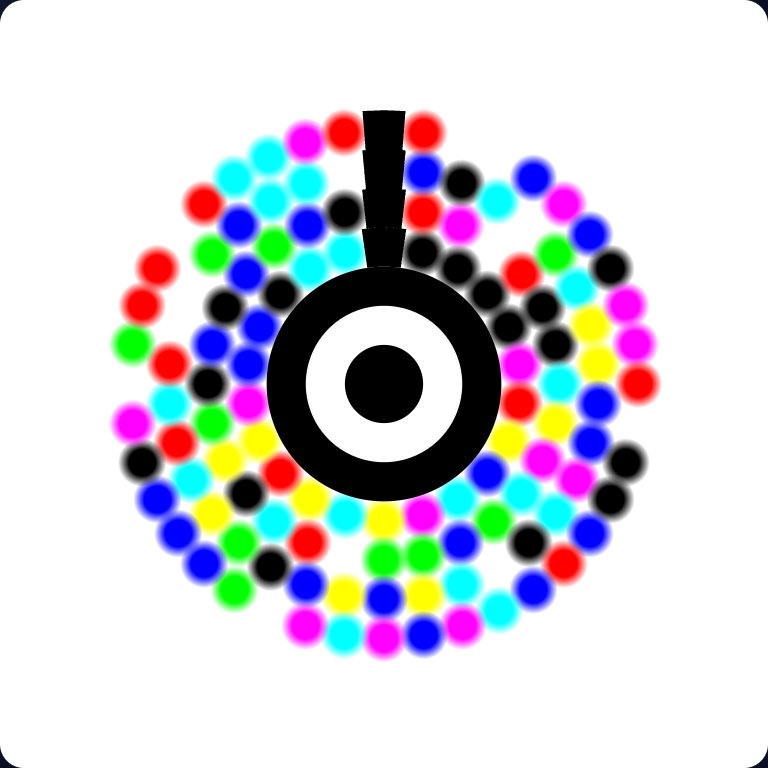
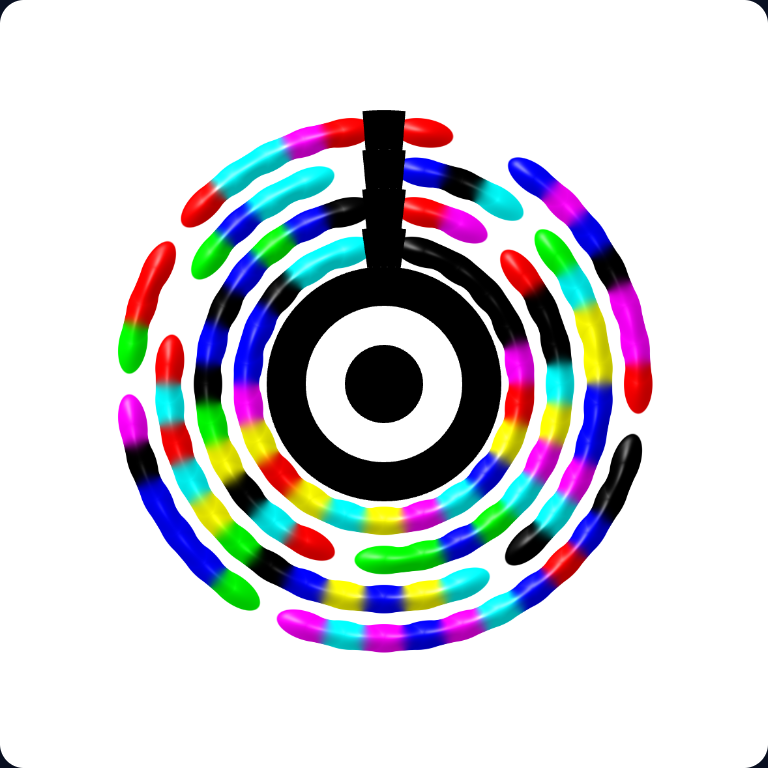
feat(web): PixiJS metaball "blobs" style
Replace the SVG circle-blob with a real PixiJS (WebGL) renderer. Each data cell
is an anisotropic metaball that merges ALONG its ring into gooey liquid bands
(colours blending at the necks via a field-weighted blend) but is radially
confined to < half the ring spacing, so LEVELS NEVER BLEND. Glossy liquid
shading from the ANALYTIC field gradient → continuous across joints (no creases);
cell cores keep ~zero gradient and a pure hue, so the metaballs still decode.
Display is supersampled (crisp); the Lab renders blobs at native res so
distort/decode stays fast.

Wired into the generator preview, PNG export and the Robustness Lab; validated
in headless Chrome (real WebGL): clean + tough combined-distortion scenarios all
decode (12–82 ms). eslint allows the PIXI global; README cell-style gallery
refreshed.

Changed region(s): [[0.125, 0.125, 0.875, 0.875]]

diff --git a/web/pixi-render.js b/web/pixi-render.js
@@ -1,0 +1,211 @@
+// PixiJS (WebGL) renderer for the IRIS "blobs" style — METABALLS.
+//
+// Each data cell is a metaball (an inverse-square field source) at its cell
+// centre, coloured by its palette entry. The fragment shader sums every cell's
+// field; where the sum crosses a threshold there is "surface", so neighbouring
+// blobs MERGE with smooth organic necks (mercury / lava-lamp), and the colour at
+// each pixel is the field-WEIGHTED BLEND of the contributing cells — so colours
+// blend exactly where blobs stick together. Inverse-square falloff means a cell's
+// own field dominates at its centre, so centres stay pure → the symbol decodes.
+// No blur: edges are a hard threshold (1px antialias only). Pupil + registration
+// ray are drawn solid on top (fiducials).
+//
+// Uses the global `PIXI` (CDN). Returns null if PIXI is unavailable.
+import { PALETTE } from "../src/color.js";
+import { imageSizePx } from "../src/params.js";
+
+// Tunables. RADIUS_FRAC sets each blob's influence vs its cell pitch; THRESHOLD
+// is the iso-surface level. Together they decide how readily blobs merge: necks
+// form between adjacent coloured cells, but a background (white) cell's centre
+// stays below threshold so it reads as background.
+// Anisotropic metaballs: WIDE along the ring (tangential) so angular neighbours
+// merge into a thick gooey concentric band, and radially CONFINED so each level
+// is independent. RAD_RAD is kept just under 0.5 (half the ring spacing): then no
+// pixel is ever inside two rings' blobs at once, so colours NEVER blend between
+// levels — the merging/blending is strictly within a ring. Lower THRESHOLD fattens
+// the blobs toward filling the ring (a thin seam still separates the levels).
+const RAD_TAN = 1.0; // tangential reach vs angular cell pitch (≤1 keeps cell centres pure)
+const RAD_RAD = 0.49; // radial reach vs ring width — MUST stay < 0.5 (no cross-level blend)
+const THRESHOLD = 0.2; // iso-surface level (lower → thicker bands)
+
+const VERT = `
+precision highp float;
+attribute vec2 aVertexPosition;
+attribute vec2 aUv;
+uniform mat3 projectionMatrix;
+uniform mat3 translationMatrix;
+varying vec2 vUv;
+void main() {
+  vUv = aUv;
+  gl_Position = vec4((projectionMatrix * translationMatrix * vec3(aVertexPosition, 1.0)).xy, 0.0, 1.0);
+}`;
+
+const FRAG = `
+precision highp float;
+varying vec2 vUv;
+uniform vec2 uResolution;
+uniform vec2 uCenter;
+uniform sampler2D uData;   // width=count, height=2: row0=(x,y,radTan,radRad), row1=(r,g,b)
+uniform float uCount;
+uniform float uThreshold;
+const int MAXC = 1024;
+void main() {
+  vec2 p = vUv * uResolution;
+  float field = 0.0;  // surface field (smooth, finite support)
+  float wsum = 0.0;   // colour weight (sharper → nearest blob dominates, necks blend 2)
+  vec3 col = vec3(0.0);
+  vec2 grad = vec2(0.0); // ANALYTIC gradient of the field → continuous surface normal
+  for (int i = 0; i < MAXC; i++) {
+    if (float(i) >= uCount) break;
+    float u = (float(i) + 0.5) / uCount;
+    vec4 a = texture2D(uData, vec2(u, 0.25)); // x, y, radTan, radRad
+    vec3 c = texture2D(uData, vec2(u, 0.75)).rgb;
+    vec2 d = p - a.xy;
+    // Decompose into radial / tangential about the symbol centre → anisotropic blob.
+    vec2 rad = normalize(a.xy - uCenter);
+    vec2 tang = vec2(-rad.y, rad.x);
+    float dr = dot(d, rad) / a.w;      // a.w = radial reach
+    float dt = dot(d, tang) / a.z;     // a.z = tangential reach
+    float t = 1.0 - (dr * dr + dt * dt); // finite support ellipse: 0 outside the blob
+    if (t <= 0.0) continue;
+    float f = t * t;     // Wyvill-ish smooth bump
+    float w = f * f;     // sharper weight keeps colours vivid, blends only at necks
+    field += f;
+    wsum += w;
+    col += c * w;
+    // d(t²)/dp = 2t·dt/dp,  dt/dp = -2(dr·rad/radRad + dt·tang/radTan)
+    grad += -4.0 * t * (dr * rad / a.w + dt * tang / a.z);
+  }
+  float alpha = smoothstep(uThreshold * 0.85, uThreshold * 1.15, field);
+  if (alpha <= 0.0) discard;
+  col /= max(wsum, 1e-4); // flat blended base colour (pure at cell cores)
+
+  // Glossy liquid shading. The normal comes from the field GRADIENT (the true
+  // iso-surface slope), which is continuous across merged blobs — so necks shade
+  // seamlessly, no creases at the joints. At a cell core grad≈0 → normal faces the
+  // viewer → uniform light → core keeps its pure hue (decodes); the highlight sits
+  // on the light-facing slopes, off-centre.
+  vec3 N = normalize(vec3(-grad * 6.0, 1.0));
+  vec3 L = normalize(vec3(-0.5, -0.7, 0.75));
+  vec3 H = normalize(L + vec3(0.0, 0.0, 1.0));      // viewer along +z
+  float core = smoothstep(uThreshold, uThreshold * 2.5, field); // 0 at rim, 1 in core
+  float diff = max(0.0, dot(N, L));
+  float spec = pow(max(0.0, dot(N, H)), 28.0) * 0.5;
+  float lambert = 0.68 + 0.40 * diff;
+  vec3 shaded = clamp(col * lambert + vec3(spec) * core, 0.0, 1.0);
+  gl_FragColor = vec4(shaded * alpha, alpha); // premultiplied
+}`;
+
+let renderer = null;
+let rKey = ""; // size@resolution the current renderer was built for
+const ok = () => typeof PIXI !== "undefined";
+
+// Supersample so the smooth metaball shading isn't upscaled (= pixelated) on
+// retina displays: render at `res`× and let it display downscaled. Capped so the
+// backing canvas stays ~≤1200px even for big symbols.
+const superSample = (size) => Math.max(1, Math.min(3, Math.round(1200 / size)));
+
+function getRenderer(size, res) {
+  const key = `${size}@${res}`;
+  if (renderer && rKey === key) return renderer;
+  if (renderer) renderer.destroy();
+  renderer = new PIXI.Renderer({
+    width: size, height: size, backgroundAlpha: 0, antialias: true,
+    resolution: res, autoDensity: false, preserveDrawingBuffer: true,
+  });
+  rKey = key;
+  return renderer;
+}
+
+const P = (cx, cy, r, a) => [cx + r * Math.sin(a), cy - r * Math.cos(a)];
+
+function buildStage(sym, size) {
+  const p = sym.params;
+  const { Rp, dr, K, N, u } = p;
+  const c = size / 2;
+  const stage = new PIXI.Container();
+
+  // Collect one metaball per coloured data cell (skip white background and the
+  // registration ray, which is drawn solid).
+  const blobs = [];
+  for (let k = 0; k < K; k++) {
+    const rmid = (Rp + (k + 0.5) * dr) * u;
+    const dk = (2 * Math.PI) / N[k];
+    const radTan = RAD_TAN * rmid * dk; // along the ring → merges angular neighbours
+    const radRad = RAD_RAD * dr * u; // across rings → small, leaves a gap between levels
+    for (let i = 1; i < N[k]; i++) {
+      const v = sym.cells[k][i];
+      if (v === 7) continue; // white === background
+      const [x, y] = P(c, c, rmid, i * dk); // centered convention
+      blobs.push({ x, y, radTan, radRad, rgb: PALETTE[v] });
+    }
+  }
+
+  if (blobs.length) {
+    const count = blobs.length;
+    const buf = new Float32Array(count * 2 * 4); // 2 rows (pos+radius, color) x RGBA
+    for (let i = 0; i < count; i++) {
+      const b = blobs[i];
+      buf[i * 4 + 0] = b.x; buf[i * 4 + 1] = b.y; buf[i * 4 + 2] = b.radTan; buf[i * 4 + 3] = b.radRad;
+      const o = (count + i) * 4; // row 1
+      buf[o + 0] = b.rgb[0] / 255; buf[o + 1] = b.rgb[1] / 255; buf[o + 2] = b.rgb[2] / 255; buf[o + 3] = 1;
+    }
+    const tex = PIXI.Texture.fromBuffer(buf, count, 2, {
+      format: PIXI.FORMATS.RGBA, type: PIXI.TYPES.FLOAT, scaleMode: PIXI.SCALE_MODES.NEAREST,
+    });
+    const geometry = new PIXI.Geometry()
+      .addAttribute("aVertexPosition", [0, 0, size, 0, size, size, 0, size], 2)
+      .addAttribute("aUv", [0, 0, 1, 0, 1, 1, 0, 1], 2)
+      .addIndex([0, 1, 2, 0, 2, 3]);
+    const shader = PIXI.Shader.from(VERT, FRAG, {
+      uResolution: [size, size], uCenter: [c, c], uData: tex, uCount: count, uThreshold: THRESHOLD,
+    });
+    stage.addChild(new PIXI.Mesh(geometry, shader));
+  }
+
+  // Registration ray: solid continuous wedge per ring (fiducial).
+  const ray = new PIXI.Graphics();
+  for (let k = 0; k < K; k++) {
+    const r0 = (Rp + k * dr) * u, r1 = (Rp + (k + 1) * dr) * u, dk = (2 * Math.PI) / N[k];
+    const a0 = -0.5 * dk, a1 = 0.5 * dk, S = 6;
+    ray.beginFill(0x000000);
+    ray.moveTo(...P(c, c, r0, a0));
+    for (let s = 0; s <= S; s++) ray.lineTo(...P(c, c, r1, a0 + (a1 - a0) * (s / S)));
+    for (let s = 0; s <= S; s++) ray.lineTo(...P(c, c, r0, a1 - (a1 - a0) * (s / S)));
+    ray.closePath();
+    ray.endFill();
+  }
+  stage.addChild(ray);
+
+  // Pupil bullseye.
+  const pupil = new PIXI.Graphics();
+  pupil.beginFill(0x000000).drawCircle(c, c, Rp * u).endFill();
+  pupil.beginFill(0xffffff).drawCircle(c, c, (Rp - 2) * u).endFill();
+  pupil.beginFill(0x000000).drawCircle(c, c, 2 * u).endFill();
+  stage.addChild(pupil);
+
+  return { stage, dispose: () => stage.destroy({ children: true, texture: true }) };
+}
+
+/** Render the blob (metaball) style to a fresh white canvas, or null if no PIXI. */
+export function renderBlobCanvas(sym, opts = {}) {
+  if (!ok()) return null;
+  const size = imageSizePx(sym.params.K, sym.params);
+  // Supersample for crisp DISPLAY; callers that distort/decode (the Lab) pass
+  // supersample:1 to keep the pixel count — and the work — at native resolution.
+  const res = opts.supersample || superSample(size);
+  const r = getRenderer(size, res);
+  const { stage, dispose } = buildStage(sym, size); // logical coords; shader runs at res×
+  r.render(stage);
+  const gpu = r.extract.canvas(stage); // size·res px → supersampled
+  dispose();
+  const out = document.createElement("canvas");
+  out.width = out.height = gpu.width;
+  const ctx = out.getContext("2d");
+  ctx.fillStyle = "#fff";
+  ctx.fillRect(0, 0, out.width, out.height);
+  ctx.drawImage(gpu, 0, 0, out.width, out.height);
+  return out;
+}
+
+export const pixiAvailable = ok;

diff --git a/web/pixi-test.html b/web/pixi-test.html
@@ -1,0 +1,58 @@
+<!DOCTYPE html>
+<html lang="en">
+  <head>
+    <meta charset="UTF-8" />
+    <title>IRIS · PixiJS blob test</title>
+    <script src="https://cdn.jsdelivr.net/npm/pixi.js@7.4.2/dist/pixi.min.js"></script>
+    <style>
+      body { margin: 0; background: #0f172a; color: #e2e8f0; font-family: monospace; }
+      .wrap { display: flex; gap: 24px; padding: 24px; align-items: flex-start; }
+      .card { background: #fff; padding: 12px; border-radius: 12px; }
+      #host canvas, #host img { width: 420px; height: 420px; display: block; }
+      #result { font-size: 14px; }
+    </style>
+  </head>
+  <body>
+    <div class="wrap">
+      <div class="card"><div id="host"></div></div>
+      <div>
+        <div id="result">rendering…</div>
+        <pre id="info"></pre>
+      </div>
+    </div>
+    <script type="module">
+      import { encodeColor } from "../src/color.js";
+      import { decodeColorRobust } from "../src/robust.js";
+      import { renderBlobCanvas, pixiAvailable } from "./pixi-render.js";
+
+      const text = new URLSearchParams(location.search).get("t") || "hello iris";
+      const result = document.getElementById("result");
+      const info = document.getElementById("info");
+      try {
+        if (!pixiAvailable()) throw new Error("PIXI global not found");
+        const sym = encodeColor(text);
+        const canvas = renderBlobCanvas(sym);
+        document.getElementById("host").appendChild(canvas);
+
+        // Decode straight off the rendered canvas.
+        const { width: W, height: H } = canvas;
+        const id = canvas.getContext("2d").getImageData(0, 0, W, H).data;
+        const rgb = new Uint8Array(W * H * 3);
+        for (let i = 0, j = 0; i < id.length; i += 4, j += 3) { rgb[j] = id[i]; rgb[j + 1] = id[i + 1]; rgb[j + 2] = id[i + 2]; }
+        let dec = null;
+        try { dec = decodeColorRobust({ width: W, height: H, data: rgb }); } catch (e) { dec = { err: e.message }; }
+        const okDec = dec && dec.text === text;
+        result.textContent = okDec ? `✓ decodes: "${dec.text}" (K=${dec.params.K})` : `✗ decode failed: ${dec && (dec.err || dec.text)}`;
+        result.dataset.status = okDec ? "ok" : "fail";
+        window.__IRIS_DONE = true;
+        window.__IRIS_DECODE = okDec;
+        info.textContent = `text: ${text}\nsize: ${W}px\nK: ${sym.params.K}\nN: ${sym.params.N.join(", ")}`;
+      } catch (e) {
+        result.textContent = "ERROR: " + e.message;
+        result.dataset.status = "error";
+        window.__IRIS_DONE = true;
+        window.__IRIS_ERR = e.message;
+      }
+    </script>
+  </body>
+</html>

diff --git a/web/app.js b/web/app.js
@@ -2,6 +2,7 @@
 // Browser-safe modules only (no Node APIs). Uses the v2 color profile by
 // default for high capacity (3 bits/cell).
 import { encodeColor, renderColorSVG } from "../src/color.js";
+import { renderBlobCanvas, pixiAvailable } from "./pixi-render.js";
 
 const $ = (id) => document.getElementById(id);
 const els = {
@@ -62,14 +63,26 @@ function render() {
   }
 
   els.error.classList.add("hidden");
-  const svg = renderColorSVG(symbol, { style: els.style.value });
-  current = { svg, symbol };
-  els.preview.innerHTML = svg;
-  const svgEl = els.preview.querySelector("svg");
-  if (svgEl) {
-    svgEl.removeAttribute("width");
-    svgEl.removeAttribute("height");
-    svgEl.classList.add("h-full", "w-full");
+  const style = els.style.value;
+  const svg = renderColorSVG(symbol, { style });
+  current = { svg, symbol, canvas: null };
+  // "blobs" is drawn by the PixiJS WebGL gradient-slice renderer (real interpolated
+  // slices, not an SVG approximation). Other styles use the deterministic SVG.
+  let blobCanvas = null;
+  if (style === "blobs" && pixiAvailable()) blobCanvas = renderBlobCanvas(symbol);
+  if (blobCanvas) {
+    blobCanvas.classList.add("h-full", "w-full");
+    blobCanvas.style.objectFit = "contain";
+    els.preview.replaceChildren(blobCanvas);
+    current.canvas = blobCanvas;
+  } else {
+    els.preview.innerHTML = svg;
+    const svgEl = els.preview.querySelector("svg");
+    if (svgEl) {
+      svgEl.removeAttribute("width");
+      svgEl.removeAttribute("height");
+      svgEl.classList.add("h-full", "w-full");
+    }
   }
 
   const { K, N } = symbol.params;
@@ -99,6 +112,11 @@ els.downloadSvg.addEventListener("click", () => {
 
 els.downloadPng.addEventListener("click", () => {
   if (!current) return;
+  // Blobs are GPU-rendered to a canvas — export it directly.
+  if (current.canvas) {
+    current.canvas.toBlob((blob) => download(blob, `${safeFilename(els.text.value)}.png`), "image/png");
+    return;
+  }
   const scale = 2; // crisp export
   const svgBlob = new Blob([current.svg], { type: "image/svg+xml" });
   const url = URL.createObjectURL(svgBlob);

diff --git a/web/lab.js b/web/lab.js
@@ -2,6 +2,7 @@
 // blur, noise, scratches) and see whether the robust decoder reconstructs it.
 import { encodeColor, renderColorSVG } from "../src/color.js";
 import { decodeColorRobust } from "../src/robust.js";
+import { renderBlobCanvas, pixiAvailable } from "./pixi-render.js";
 
 const $ = (id) => document.getElementById(id);
 const els = {
@@ -61,6 +62,12 @@ function renderBase(text) {
     } catch (e) {
       reject(e);
       return;
+    }
+    // Blobs are drawn by the PixiJS gradient-slice renderer; distortion + decode
+    // then run on that canvas exactly like the SVG-based styles.
+    if (els.style.value === "blobs" && pixiAvailable()) {
+      const c = renderBlobCanvas(symbol, { supersample: 1 }); // native res → fast distort/decode
+      if (c) { resolve({ canvas: c, D: c.width, symbol }); return; }
     }
     const svg = renderColorSVG(symbol, { style: els.style.value });
     const D = +svg.match(/width="(\d+)"/)[1];

diff --git a/eslint.config.js b/eslint.config.js
@@ -28,9 +28,9 @@ export default [
     files: ["bin/**/*.js", "test/**/*.js", "eslint.config.js"],
     languageOptions: { globals: { ...globals.node } },
   },
-  // The web generator runs in the browser (Tailwind is loaded via CDN).
+  // The web generator runs in the browser (Tailwind and PixiJS loaded via CDN).
   {
     files: ["web/**/*.js"],
-    languageOptions: { globals: { ...globals.browser, tailwind: "readonly" } },
+    languageOptions: { globals: { ...globals.browser, tailwind: "readonly", PIXI: "readonly" } },
   },
 ];

diff --git a/web/index.html b/web/index.html
@@ -256,6 +256,9 @@
       </div>
     </div>
 
+    <!-- PixiJS (WebGL) — powers the "blobs" gradient-slice renderer. Classic script
+         so the PIXI global is ready before the deferred module scripts run. -->
+    <script src="https://cdn.jsdelivr.net/npm/pixi.js@7.4.2/dist/pixi.min.js"></script>
     <script type="module" src="./app.js"></script>
     <script type="module" src="./lab.js"></script>
   </body>

diff --git a/README.md b/README.md
@@ -54,7 +54,13 @@ so all three decode equally well:
 | Slices | Dots | Blobs |
 | :---: | :---: | :---: |
 | ![Slices style](docs/img/style-slices.png) | ![Dots style](docs/img/style-dots.png) | ![Blobs style](docs/img/style-blobs.png) |
-| annular sectors — max ink, most robust | crisp circles | soft gradient circles that blend |
+| annular sectors — max ink, most robust | crisp circles | glossy **metaballs** (PixiJS / WebGL) |
+
+**Blobs** are rendered by a small **PixiJS** WebGL shader ([`web/pixi-render.js`](./web/pixi-render.js)):
+each cell is an anisotropic metaball that merges *along* its ring into gooey liquid bands
+(colours blending at the necks) but is radially confined so **levels never blend**. Lighting
+comes from the analytic field gradient — seamless across joints — and the cell cores stay
+pure, so even the metaballs decode. SVG handles slices/dots; PixiJS handles blobs.
 
 ## Install / run
 